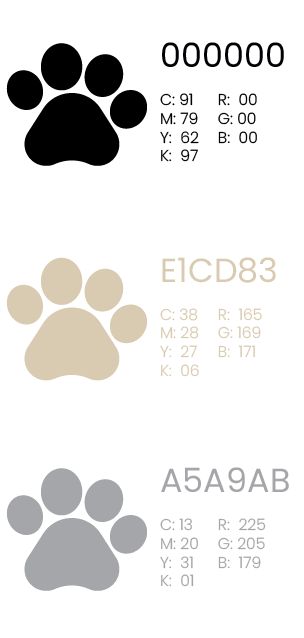
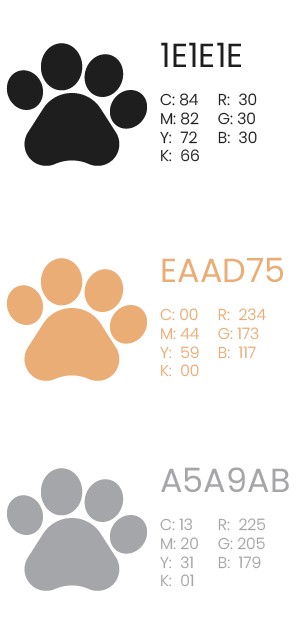
html

diff --git a/assets/css/main.css b/assets/css/main.css
@@ -100,7 +100,7 @@ input, select, textarea {
 	body, input, textarea, select {
 		font-family: 'Open Sans', sans-serif;
 		font-weight: 400;
-		color: #6b7770;
+		color: #A5A9AB;
 		font-size: 13pt;
 		line-height: 2em;
 	}
@@ -109,7 +109,7 @@ input, select, textarea {
 		font-family: 'Open Sans Condensed', sans-serif;
 		font-weight: 700;
 		text-transform: uppercase;
-		color: #6b7770;
+		color: #A5A9AB;
 		margin: 0 0 0.5em 0;
 		line-height: 1.3;
 	}
@@ -1792,7 +1792,7 @@ input, select, textarea {
 		font-weight: 700;
 		text-transform: uppercase;
 		text-decoration: none;
-		background: #b1ddab;
+		background: #EAAD75;
 		color: #fff;
 		border: 0;
 		line-height: 1em;
@@ -2412,7 +2412,7 @@ input, select, textarea {
 			}
 
 			#nav li.current a {
-				background: #b1ddab;
+				background: #EAAD75;
 				color: #fff;
 			}
 
@@ -2540,7 +2540,7 @@ input, select, textarea {
 
 	#main {
 		background: #fff;
-		border-top: solid 5px #b1ddab;
+		border-top: solid 5px #EAAD75;
 		border-bottom: solid 5px #c1cac5;
 		border-top-width: 35px;
 		border-bottom-width: 10px;
@@ -2823,7 +2823,7 @@ input, select, textarea {
 						position: absolute;
 						left: 0;
 						top: 0;
-						background: #b1ddab;
+						background: #EAAD75;
 						width: 44px;
 						height: 44px;
 						content: '\f0c9';

diff --git a/no-sidebar.html b/no-sidebar.html
@@ -15,14 +15,12 @@
 		<div id="page-wrapper">
 
 			<!-- Header -->
-				<header id="header">
-					<div class="logo container">
-						<div>
-							<h1><a href="index.html" id="logo">TXT</a></h1>
-							<p>A responsive site template by HTML5 UP</p>
-						</div>
-					</div>
-				</header>
+			<header id="header">
+				<div class="text-center my-5">
+					<img class="img-fluid rounded-circle mb-4"><img src="images/logotipo.png" alt="" /></a>
+					<div>
+				</div>
+			</header>
 
 			<!-- Nav -->
 				<nav id="nav">

diff --git a/right-sidebar.html b/right-sidebar.html
@@ -15,14 +15,12 @@
 		<div id="page-wrapper">
 
 			<!-- Header -->
-				<header id="header">
-					<div class="logo container">
-						<div>
-							<h1><a href="index.html" id="logo">TXT</a></h1>
-							<p>A responsive site template by HTML5 UP</p>
-						</div>
-					</div>
-				</header>
+			<header id="header">
+				<div class="text-center my-5">
+					<img class="img-fluid rounded-circle mb-4"><img src="images/logotipo.png" alt="" /></a>
+					<div>
+				</div>
+			</header>
 
 			<!-- Nav -->
 				<nav id="nav">

diff --git a/index.html b/index.html
@@ -13,14 +13,12 @@
 	</head>
 	<body class="homepage is-preload">
 		<div id="page-wrapper">
-
+				
 			<!-- Header -->
 				<header id="header">
-					<div class="logo container">
+					<div class="text-center my-5">
+						<img class="img-fluid rounded-box mb-4"><img src="images/logotipo.png" alt="" /></a>
 						<div>
-							<h1><a href="index.html" id="logo">Puppy</a></h1>
-							<p>Vest</p>
-						</div>
 					</div>
 				</header>
 

diff --git a/left-sidebar.html b/left-sidebar.html
@@ -16,11 +16,9 @@
 
 			<!-- Header -->
 				<header id="header">
-					<div class="logo container">
+					<div class="text-center my-5">
+						<img class="img-fluid rounded-circle mb-4"><img src="images/logotipo.png" alt="" /></a>
 						<div>
-							<h1><a href="index.html" id="logo">Puppy</a></h1>
-							<p>Vest</p>
-						</div>
 					</div>
 				</header>
 
